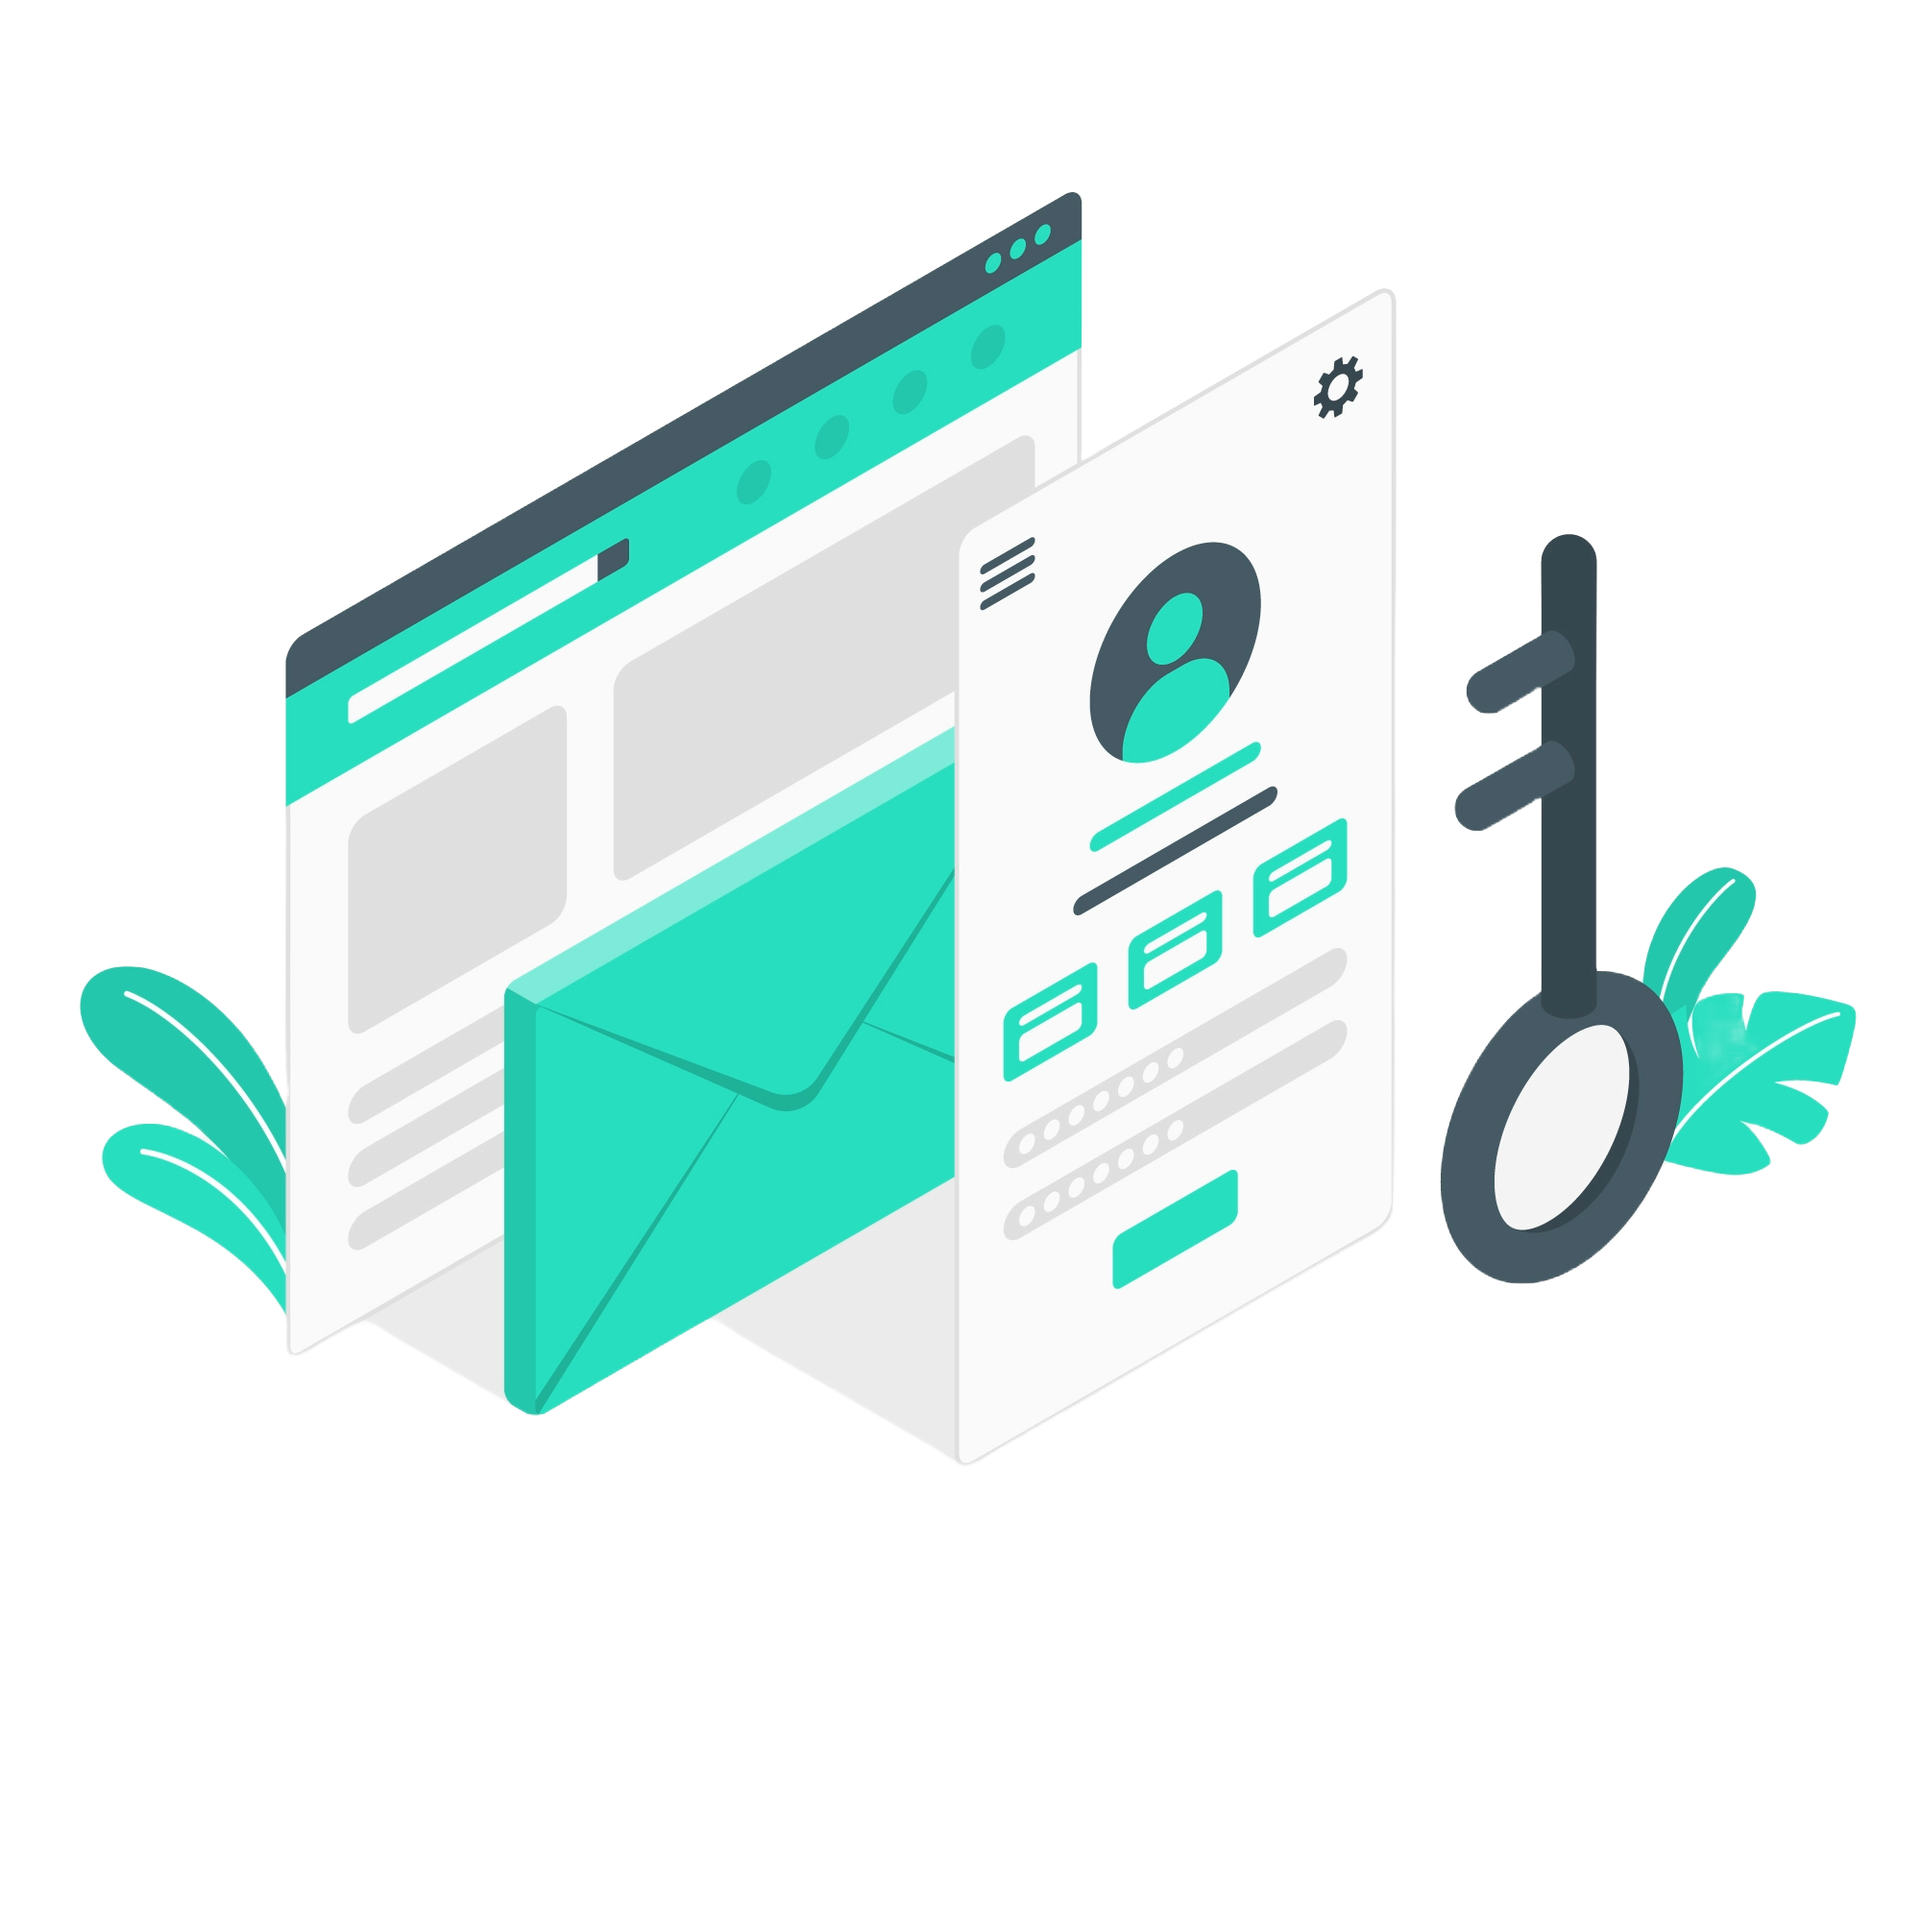
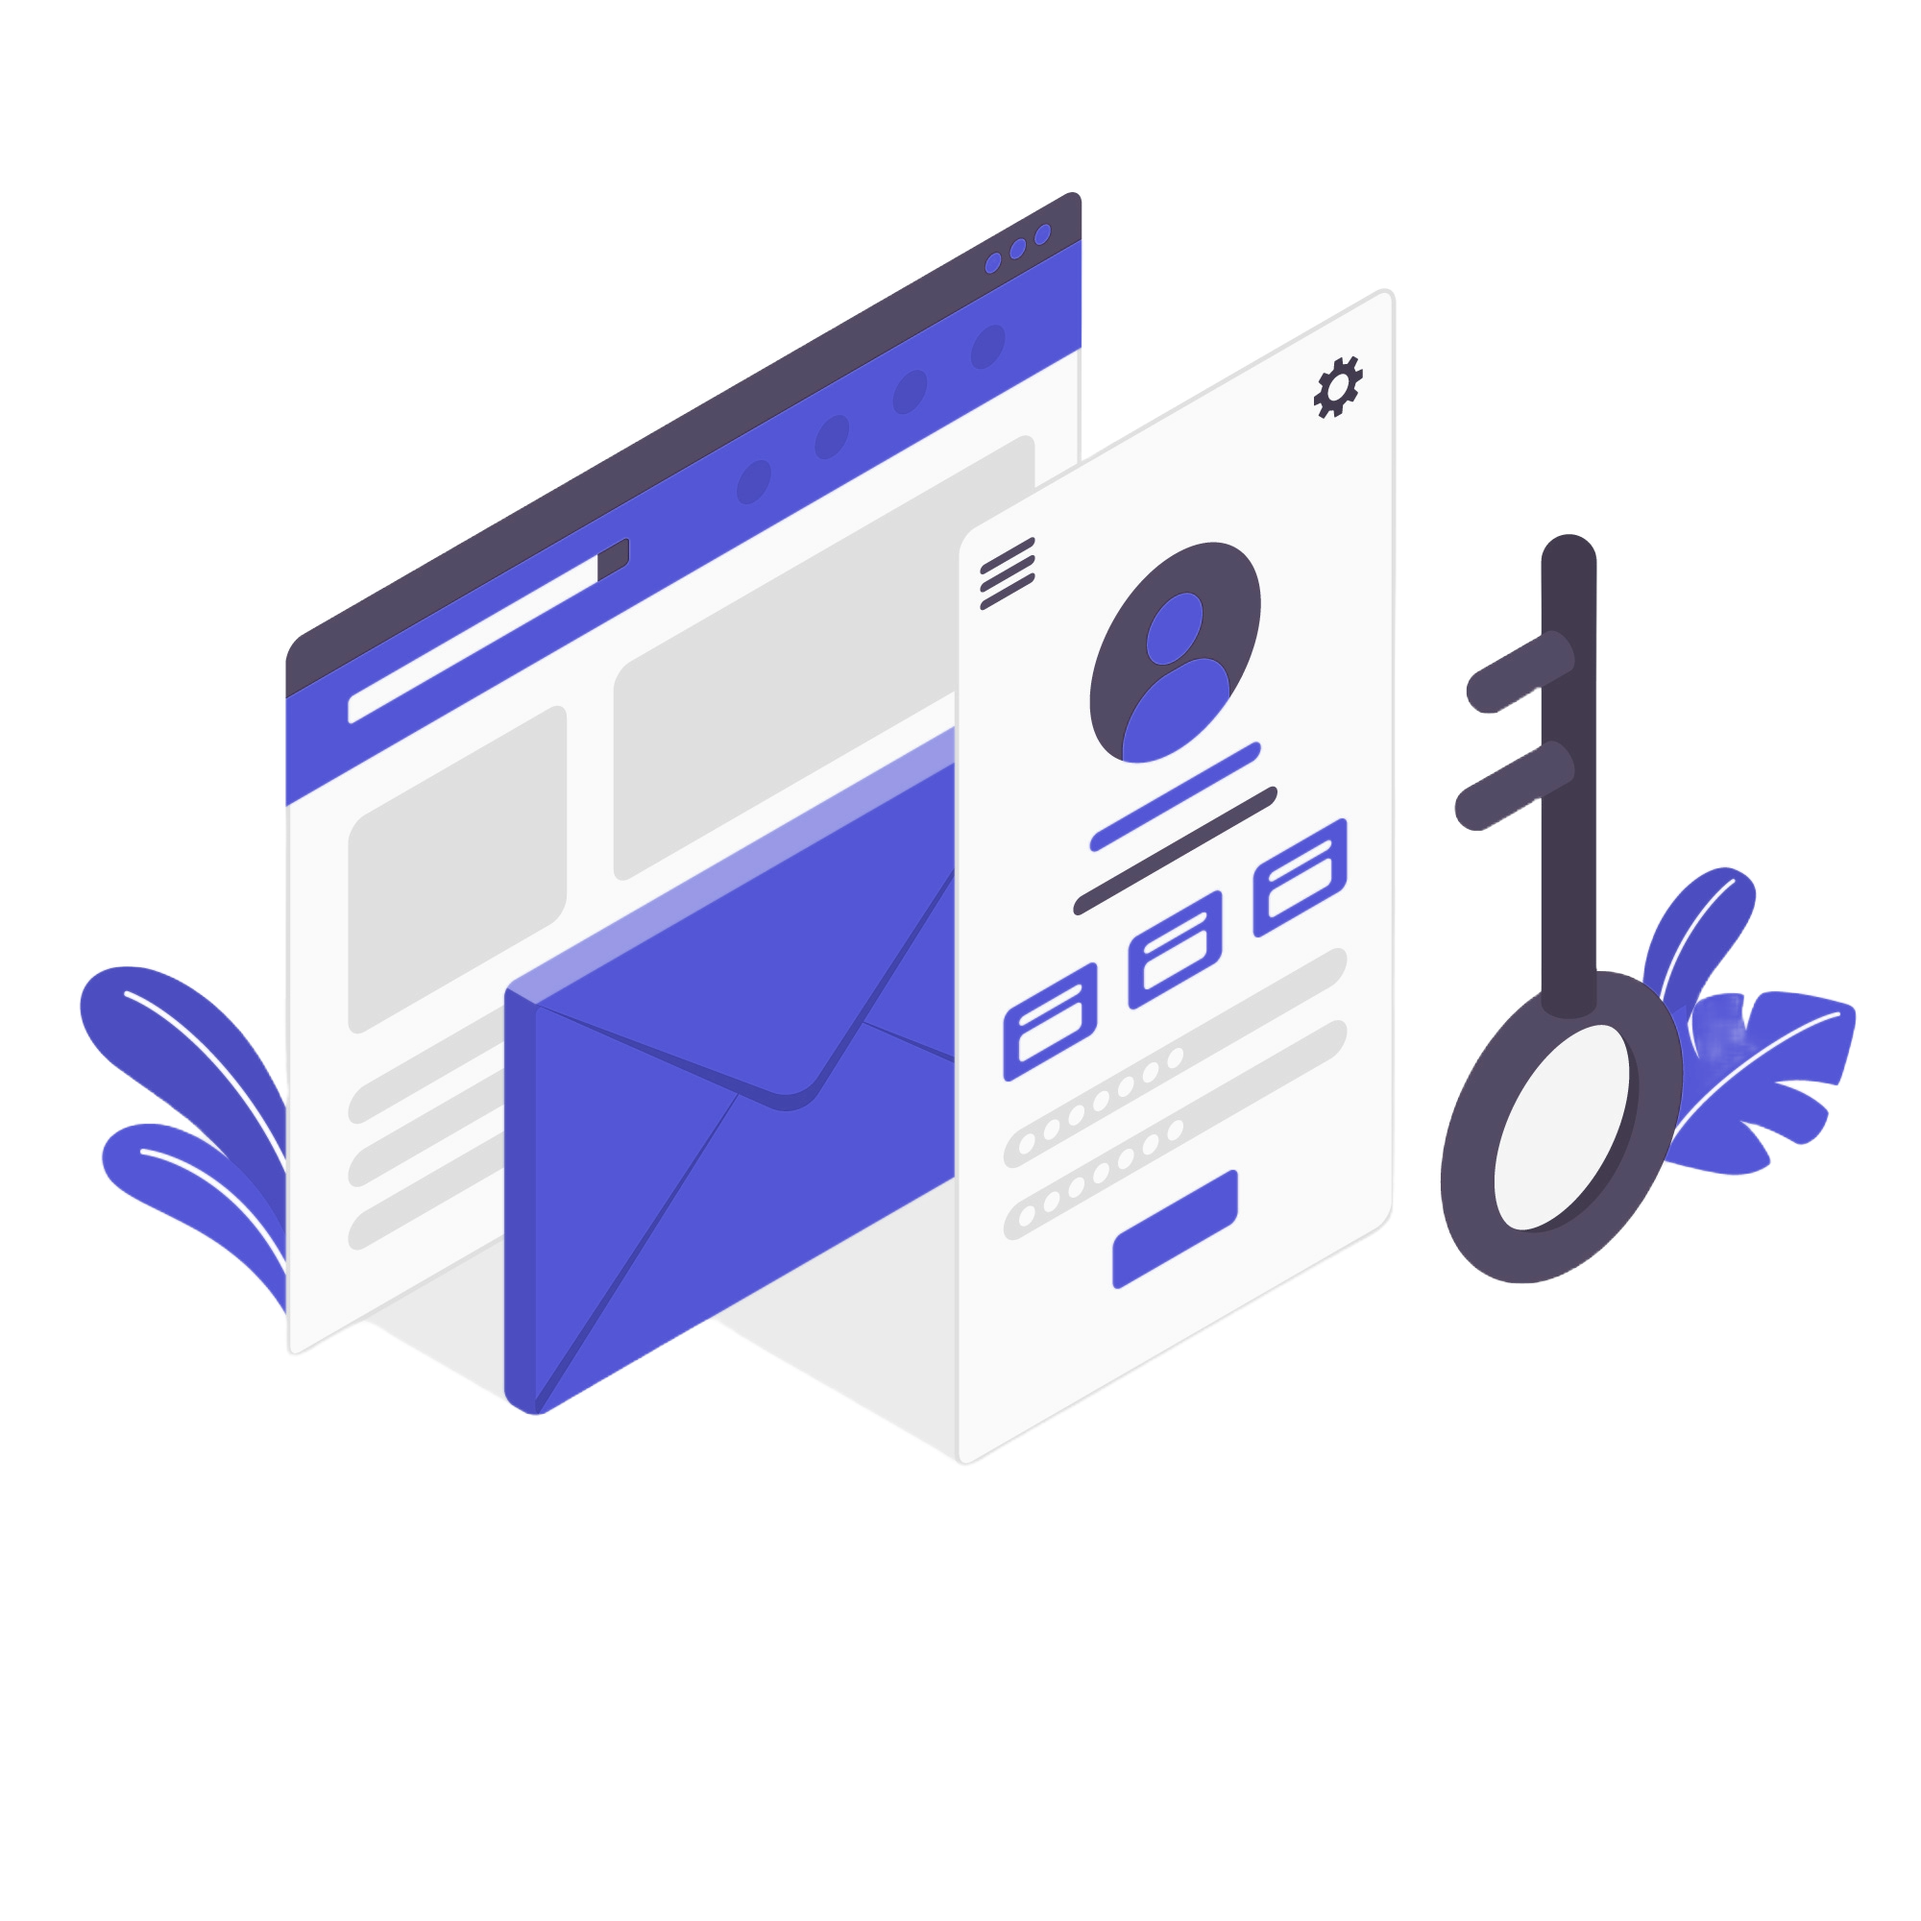
Added new designs

diff --git a/Frontend/src/App.css b/Frontend/src/App.css
@@ -74,71 +74,86 @@ p {
 
 .authPage {
   display: flex;
-  min-width: 1500px;
+  width: 100%;
   max-width: 1500px;
   margin: 0 auto;
   min-height: 100vh;
+  align-items: center;
 }
+
 .authPage .container {
   flex: 1;
   display: flex;
   flex-direction: column;
   justify-content: center;
   background: #fff;
-  padding: 20px 20px;
+  padding: 40px 30px;
+  box-shadow: 0 4px 8px rgba(0, 0, 0, 0.1);
+  border-radius: 8px;
 }
+
 .authPage .container .header {
   display: flex;
-  gap: 15px;
   flex-direction: column;
-}
-.authPage .container .header h3 {
-  font-size: 1.6rem;
-}
-.authPage .container .header img {
-  width: 300px;
-  height: 120px;
-  margin: 0 auto;
-}
-.authPage .container .header {
+  align-items: center;
   text-align: center;
   margin-bottom: 30px;
 }
+
+.authPage .container .header h3 {
+  font-size: 2rem;
+  color: #333;
+}
+
+.authPage .container .header img {
+  width: 200px;
+  height: 150px;
+}
+
 .authPage .container form {
   display: flex;
   flex-direction: column;
   gap: 20px;
 }
+
 .authPage .container form .inputTag {
   display: flex;
   flex-direction: column;
   gap: 10px;
 }
+
 .authPage .container form .inputTag div {
   display: flex;
   align-items: center;
   border-radius: 7px;
+  background: rgba(135, 135, 135, 0.2);
+  padding: 8px;
 }
+
 .authPage .container form .inputTag div input,
 .authPage .container form .inputTag div select {
-  background: #87878778;
+  background: transparent;
   padding: 8px;
   border: none;
   width: 100%;
   height: 100%;
 }
+
 .authPage .container form .inputTag div input:focus,
 .authPage .container form .inputTag div select:focus {
   outline: none;
 }
+
 .authPage .container form .inputTag div svg {
   width: 10%;
   font-size: 1.5rem;
-  background: #2d5649;
+  background: #e7ab44;
   height: 100%;
   padding: 8px;
   color: #fff;
+  border-radius: 0 7px 7px 0;
 }
+
 .authPage .container form button {
   padding: 12px;
   text-align: center;
@@ -146,51 +161,87 @@ p {
   margin-top: 25px;
   font-weight: 700;
   color: #fff;
-  background: #2d5649;
+  background: #e7ab44;
   font-size: 1.2rem;
   border-radius: 7px;
+  cursor: pointer;
+  transition: background 0.3s;
 }
+
+.authPage .container form button:hover {
+  background: #b27d21;
+}
+
 .authPage .container form a {
   padding: 12px;
   text-align: center;
   border: 1px solid #2d5649;
   margin-top: 25px;
   font-weight: 700;
-  color: #2d5649;
+  color: #e7ab44;
   font-size: 1.2rem;
   text-decoration: none;
   border-radius: 7px;
+  cursor: pointer;
+  transition: background 0.3s, color 0.3s;
 }
+
+.authPage .container form a:hover {
+  background: #130981;
+  color: #fff;
+}
+
 .authPage .banner {
   flex: 2;
   display: flex;
   justify-content: center;
   align-items: center;
-  overflow-y: hidden;
 }
+
 .authPage .banner img {
   width: 100%;
-  width: 550px;
-  height: 550px;
+  max-width: 850px;
+  height: auto;
+  animation: float 6s ease-in-out infinite;
 }
-@media (max-width: 1520px) {
-  .authPage {
-    min-width: 100%;
+
+@keyframes float {
+  0%,
+  100% {
+    transform: translateY(0px);
+  }
+  50% {
+    transform: translateY(-20px);
   }
 }
+
+@media (max-width: 1520px) {
+  .authPage {
+    flex-direction: column;
+    align-items: center;
+  }
+}
+
+@media (max-width: 1520px) {
+  .authPage {
+    flex-direction: column;
+    align-items: center;
+    padding: 20px;
+  }
+}
+
 @media (max-width: 830px) {
   .authPage {
     min-height: 100vh;
-    height: auto;
   }
+
   .authPage .container {
-    flex: none;
     width: 100%;
     justify-content: flex-start;
     padding: 40px 20px;
   }
+
   .authPage .banner {
-    flex: none;
     display: none;
   }
 }
@@ -237,6 +288,8 @@ p {
   display: none;
 }
 
+/*Hero Section*/
+
 .heroSection {
   display: flex;
   flex-direction: column;
@@ -264,6 +317,7 @@ p {
 }
 .heroSection .container .title h1 {
   max-width: 600px;
+  color: #0b3271;
 }
 .heroSection .container .title p {
   margin-top: 1.5rem;
@@ -1148,6 +1202,8 @@ p {
     gap: 8px;
   }
 }
+
+/*Navbar*/
 nav {
   background: #03132d;
   padding: 0 5px;
@@ -1177,21 +1233,21 @@ nav .menu button {
   height: fit-content;
   padding: 7px;
   border: 1px solid #f1f3f6;
-  color: #f1f3f6;
+  color: #fbb02e;
   background: transparent;
   font-size: 20px;
   font-weight: 300;
 }
 nav .menu button:hover {
   color: #f1f3f6;
-  background: #184235;
+  background: #986807;
   transition: all 0.3s;
   cursor: pointer;
   font-weight: 500;
   border: 1px solid #184235;
 }
 nav .menu li a {
-  color: #f1f3f6;
+  color: #fbb02e;
   text-decoration: none;
   font-weight: 300;
   font-size: 20px;

diff --git a/Frontend/src/components/Layout/Navbar.jsx b/Frontend/src/components/Layout/Navbar.jsx
@@ -38,31 +38,31 @@ function Navbar() {
         <ul className={!show ? "menu" : "show-menu menu"}>
           <li>
             <Link to={"/"} onClick={() => setShow(false)}>
-              HOME
+              Home
             </Link>
           </li>
           <li>
             <Link to={"/job/getall"} onClick={() => setShow(false)}>
-              ALL JOBS
+              Jobs
             </Link>
           </li>
           <li>
             <Link to={"/applications/me"} onClick={() => setShow(false)}>
               {user && user.role === "Employer"
-                ? "APPLICANT'S APPLICATIONS"
-                : "MY APPLICATIONS"}
+                ? "Applicant's Application"
+                : "Your Applications"}
             </Link>
           </li>
           {user && user.role === "Employer" ? (
             <>
               <li>
                 <Link to={"/job/post"} onClick={() => setShow(false)}>
-                  POST NEW JOB
+                  Post Job
                 </Link>
               </li>
               <li>
                 <Link to={"/job/me"} onClick={() => setShow(false)}>
-                  VIEW YOUR JOBS
+                  Your Jobs
                 </Link>
               </li>
             </>
